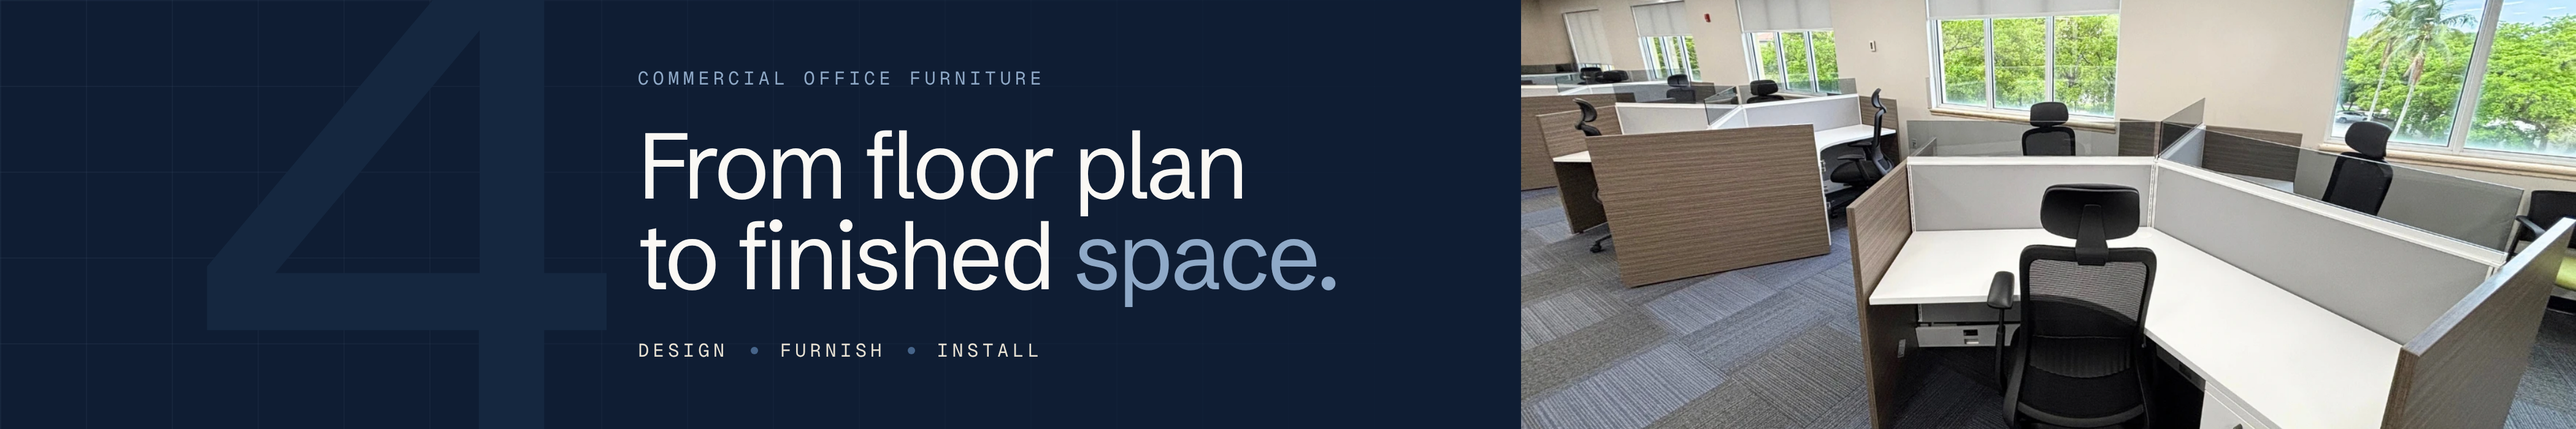
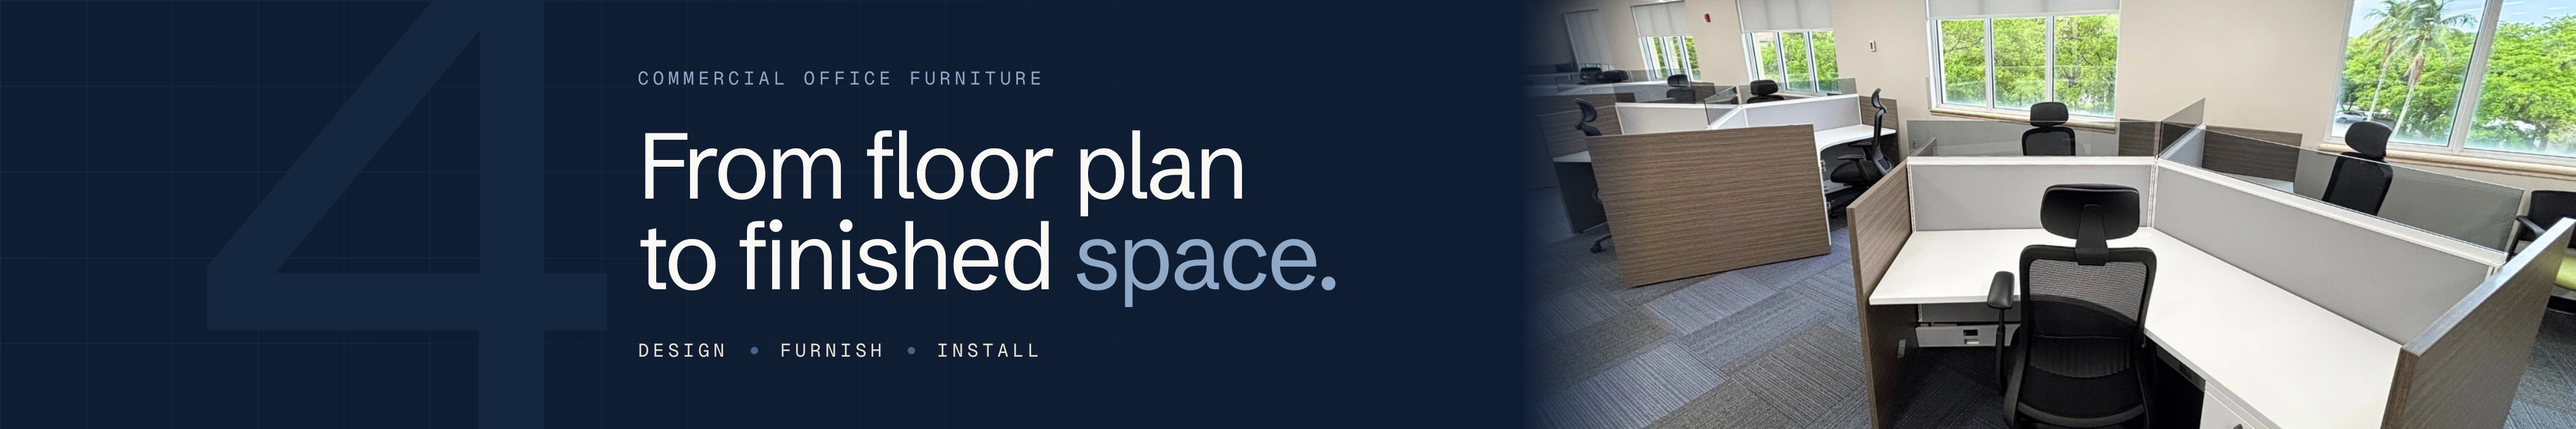
LinkedIn cover: original photo placement with a small left-edge fade
Claude-Session: https://claude.ai/code/session_01RAmTvnTRSBrjcziJwch39d

Changed region(s): [[0.5926, 0.0, 0.655, 1.0]]

diff --git a/linkedin/company-cover-photo-open.html b/linkedin/company-cover-photo-open.html
@@ -31,7 +31,8 @@
   }
   .copy { grid-column: 2; position: relative; padding-right: 60px; }
   .photo { grid-column: 3; align-self: stretch; position: relative;
-    background: var(--photo) center 62% / cover no-repeat; }
+    background: var(--photo) center 62% / cover no-repeat;
+    -webkit-mask-image: linear-gradient(to right, transparent 0%, #000 12%); mask-image: linear-gradient(to right, transparent 0%, #000 12%); }
   .eyebrow {
     font-family: var(--of4s-font-mono); font-size: 15px; letter-spacing: 0.22em;
     text-transform: uppercase; color: var(--of4s-navy-300); margin-bottom: 22px;
